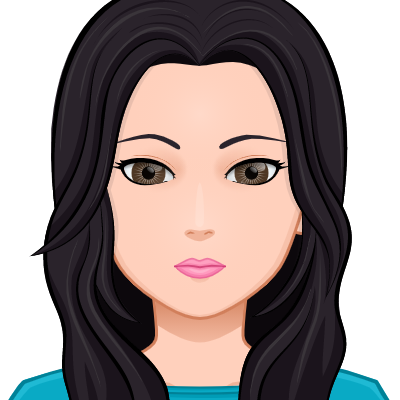
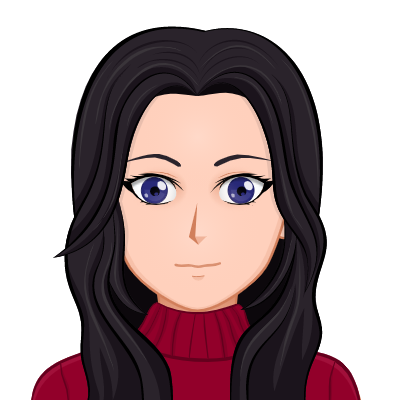
Edit profile.

diff --git a/api/controllers/UserController.js b/api/controllers/UserController.js
@@ -78,7 +78,7 @@ module.exports = {
 
     profile: async function (req, res) {
 
-        console.log(req.session.userid);
+        // console.log(req.session.userid);
 
         var user = await User.findOne(req.session.userid);
 
@@ -87,7 +87,57 @@ module.exports = {
         console.log(user);
         // console.log(user.name);
 
-       return res.view('user/profile', { userinfo: user });
+       return res.view('user/profile', { userinfo: user, userid: req.session.userid });
+
+    },
+
+    editProfile: async function (req, res) {
+
+        if(req.method == 'GET') {
+
+            console.log("Update Profile is here GET");
+            console.log(req.params.id);
+
+            var user = await User.findOne(req.params.id);
+
+            if (!user) { return res.notFound(); }
+    
+            console.log("Edit Profile Here:")
+            console.log(user);
+            // console.log(user.name);
+    
+           return res.view('user/editProfile', { userinfo: user, userid: req.params.id });
+
+        } else {
+
+            console.log("Update Profile is here POST");
+            console.log(req.params.id);
+
+            var user = await User.findOne(req.params.id);
+    
+            if (!user) { return res.notFound(); }
+    
+          
+            var updateUser = await User.update(req.params.id).set({
+                preferred_name: req.body.User.preferred_name,
+                instagram: req.body.User.instagram,
+                facebook: req.body.User.facebook,
+                bio: req.body.User.bio,
+                interest: req.body.User.interest,
+                strength: req.body.User.strength,
+                skills: req.body.User.skills,
+
+            }).fetch();
+
+           return res.json({ message: 'The profile is successfully updated.', url: '/user/profile' });
+
+        }
+
+    },
+
+    updateProfile: async function (req, res) {
+
+        
 
     },
 

diff --git a/config/bootstrap.js b/config/bootstrap.js
@@ -33,8 +33,8 @@ module.exports.bootstrap = async function () {
 
     await User.createEach([
 
-      { givenId: 's17228336', password: hash, role: 'student', preferred_name: 'Vicky Lee', fullName: 'LEE Yui Tung', gender: 'Female', contact_mobile: '9430 2848', contact_mail: 's17228336@life.hkbu.edu.hk', study_year: 4, study_programme: "BSC COMPUTER SCI ISA" },
-      { givenId: 's17227337', password: hash, role: 'student', preferred_name: 'Jonas Wong', fullName: 'WONG Ming Hong', gender: 'Male', contact_mobile: '9930 2338', contact_mail: 's17227337@life.hkbu.edu.hk', study_year: 3, study_programme: "BSC COMPUTER SCI CST" },
+      { givenId: 's17228336', password: hash, role: 'student', preferred_name: 'Vicky Lee', fullName: 'LEE Yui Tung', gender: 'Female', contact_mobile: '9430 2848', contact_mail: 's17228336@life.hkbu.edu.hk', study_year: 4, study_programme: "BSC COMPUTER SCI ISA", imgURL: "/images/user1.png" },
+      { givenId: 's17227337', password: hash, role: 'student', preferred_name: 'Jonas Wong', fullName: 'WONG Ming Hong', gender: 'Male', contact_mobile: '9930 2338', contact_mail: 's17227337@life.hkbu.edu.hk', study_year: 3, study_programme: "BSC COMPUTER SCI CST", imgURL: "/images/user4.png" },
 
       // etc.
     ]);

diff --git a/api/models/User.js b/api/models/User.js
@@ -66,6 +66,38 @@ module.exports = {
       type: "string"
     },
 
+    imgURL: {
+      type: "string"
+    },
+
+    instagram: {
+      type: "string"
+    },
+
+    facebook: {
+      type: "string"
+    },
+
+    bio: {
+      type: "string"
+    },
+
+    interest: {
+      type: "string"
+
+    },
+
+    strength: {
+      type: "string"
+
+    },
+
+    skills: {
+      type: "string"
+
+    },
+
+
 
     //  ╔═╗╔╦╗╔╗ ╔═╗╔╦╗╔═╗
     //  ║╣ ║║║╠╩╗║╣  ║║╚═╗

diff --git a/config/routes.js b/config/routes.js
@@ -30,7 +30,8 @@ module.exports.routes = {
   'POST /user/login': 'UserController.login',
   'POST /user/logout': 'UserController.logout',
   'GET /user/profile': 'UserController.profile',
-
+  'GET /user/editProfile/:id': 'UserController.editProfile',
+  'PATCH /user/:id': 'UserController.editProfile',
 
 
   // Associations
